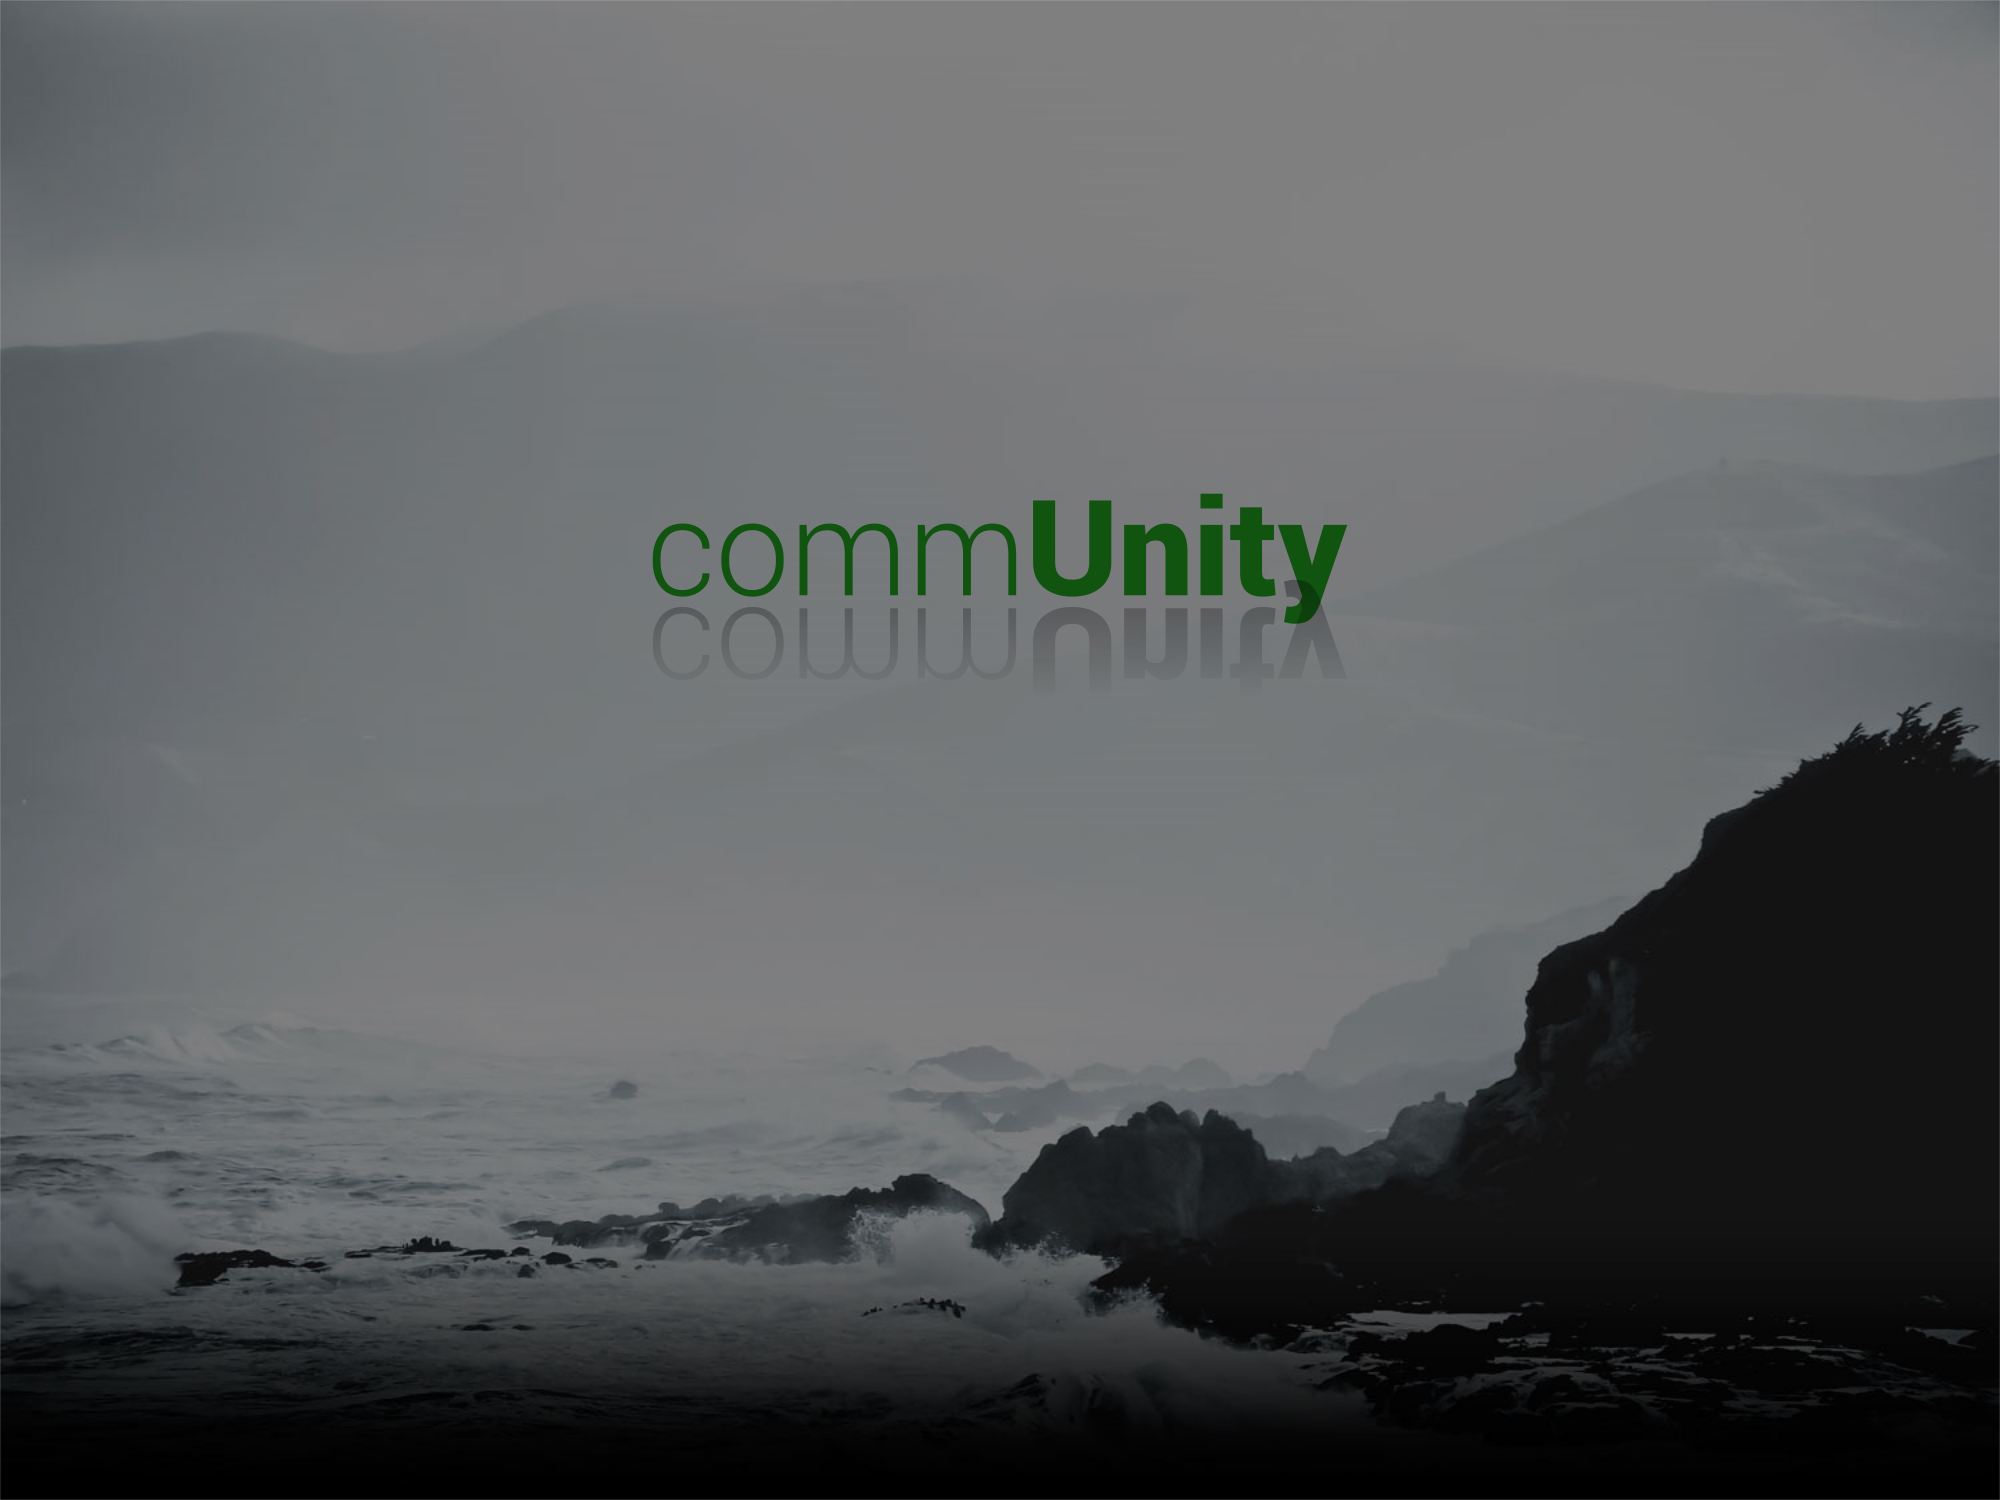
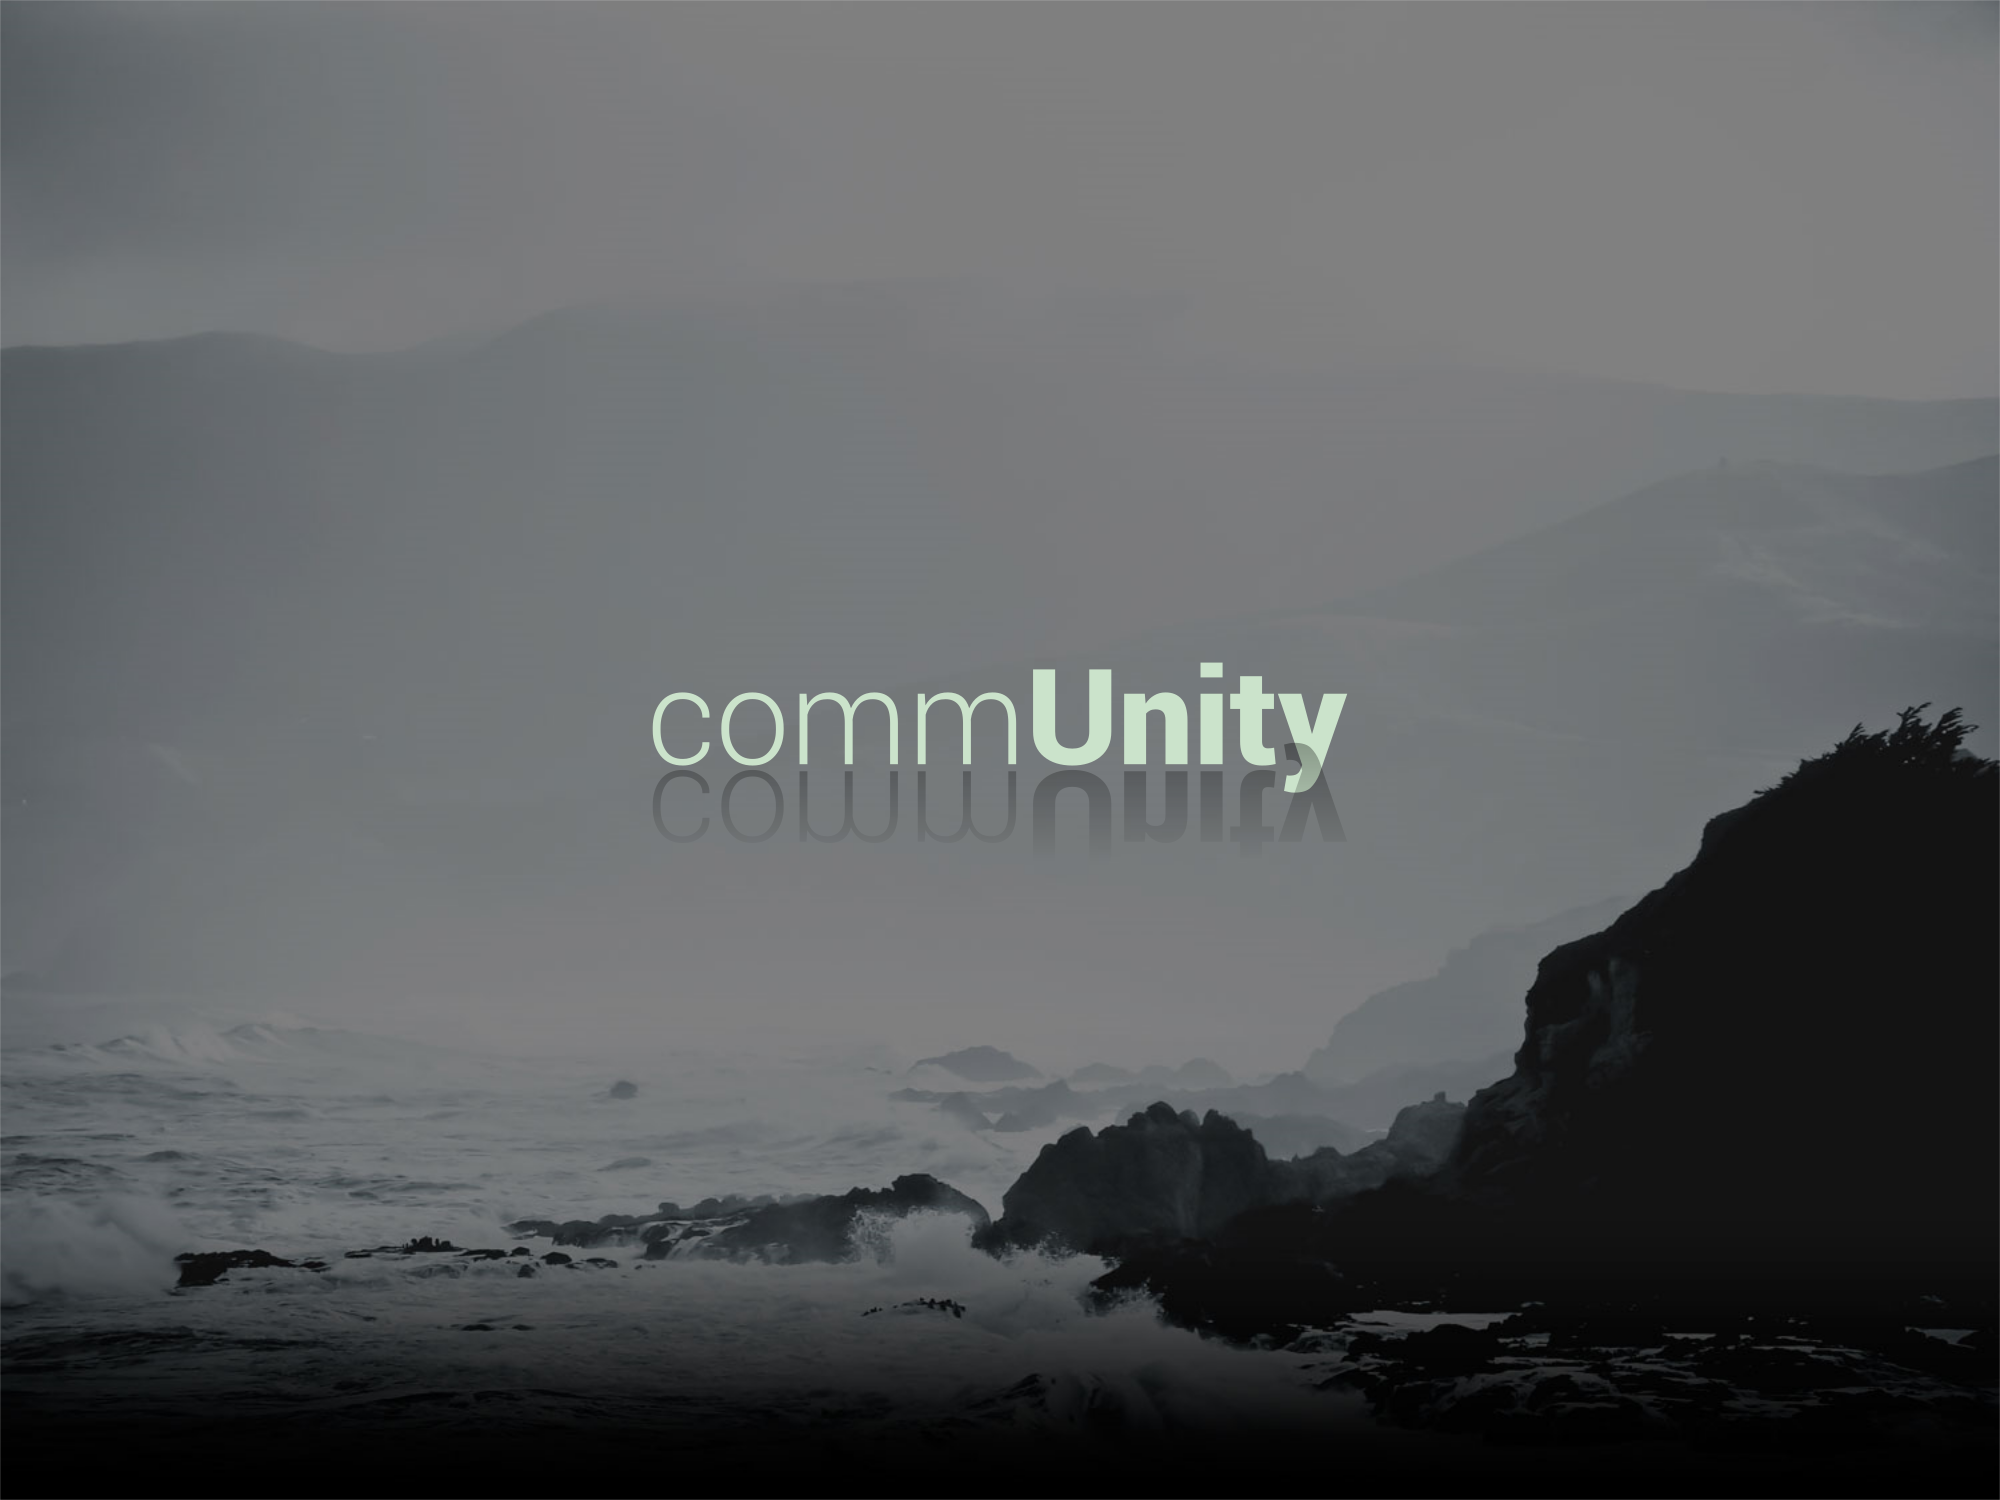
Updated images used, updated background image, changed section info

Changed region(s): [[0.31, 0.3067, 0.682, 0.552]]

diff --git a/static/css/grayscale.min.css b/static/css/grayscale.min.css
@@ -2,4 +2,4 @@
  * Start Bootstrap - Grayscale v3.3.7+1 (http://startbootstrap.com/template-overviews/grayscale)
  * Copyright 2013-2016 Start Bootstrap
  * Licensed under MIT (https://github.com/BlackrockDigital/startbootstrap/blob/gh-pages/LICENSE)
- */body,html{height:100%;width:100%}.navbar-custom,body{background-color:#000}.intro,body,html{width:100%}body{font-family:Lora,"Helvetica Neue",Helvetica,Arial,sans-serif;color:#fff;webkit-tap-highlight-color:rgba(255,255,255,.2)}.btn,.navbar-custom,h1,h2,h3,h4,h5,h6{text-transform:uppercase;font-family:Montserrat,"Helvetica Neue",Helvetica,Arial,sans-serif}h1,h2,h3,h4,h5,h6{margin:0 0 35px;font-weight:700;letter-spacing:1px}p{margin:0 0 25px;font-size:18px;line-height:1.5}@media (min-width:768px){p{margin:0 0 35px;font-size:20px;line-height:1.6}}a{color:#42DCA3;-webkit-transition:all .2s ease-in-out;-moz-transition:all .2s ease-in-out;transition:all .2s ease-in-out}a:focus,a:hover{text-decoration:none;color:#1d9b6c}.light{font-weight:400}.navbar-custom{margin-bottom:0;border-bottom:1px solid rgba(255,255,255,.3)}.navbar-custom .navbar-toggle{color:#fff;background-color:rgba(255,255,255,.2);font-size:12px}.navbar-custom .nav li a:active,.navbar-custom .nav li a:focus,.navbar-custom .nav li a:hover{background-color:transparent;outline:0}.navbar-custom .navbar-toggle:active,.navbar-custom .navbar-toggle:focus{outline:0}.navbar-custom .navbar-brand{font-weight:700}.navbar-custom .navbar-brand:focus{outline:0}.navbar-custom a{color:#fff}.navbar-custom .nav li a{-webkit-transition:background .3s ease-in-out;-moz-transition:background .3s ease-in-out;transition:background .3s ease-in-out}.navbar-custom .nav li a:hover{color:rgba(255,255,255,.8)}.navbar-custom .nav li.active{outline:0}.navbar-custom .nav li.active a{background-color:rgba(255,255,255,.3)}.navbar-custom .nav li.active a:hover{color:#fff}@media (min-width:768px){.navbar-custom{padding:20px 0;border-bottom:none;letter-spacing:1px;background:0 0;-webkit-transition:background .5s ease-in-out,padding .5s ease-in-out;-moz-transition:background .5s ease-in-out,padding .5s ease-in-out;transition:background .5s ease-in-out,padding .5s ease-in-out}.navbar-custom.top-nav-collapse{padding:0;background:#000;border-bottom:1px solid rgba(255,255,255,.3)}}.intro{display:table;height:auto;padding:100px 0;text-align:center;color:#fff;background:url(../img/commUnityBackground.png) bottom center no-repeat #000;-webkit-background-size:cover;-moz-background-size:cover;background-size:cover;-o-background-size:cover}  .intro .intro-body{display:table-cell;vertical-align:middle}  .intro .intro-body .brand-heading{font-size:40px}  .intro .intro-body .intro-text{font-size:18px}@media (min-width:768px){.intro{height:100%;padding:0}  .intro .intro-body .brand-heading{font-size:100px}  .intro .intro-body .intro-text{font-size:26px}}  .btn-circle{width:70px;height:70px;margin-top:15px;padding:7px 16px;border:2px solid #fff;border-radius:100%!important;font-size:40px;color:#fff;background:0 0;-webkit-transition:background .3s ease-in-out;-moz-transition:background .3s ease-in-out;transition:background .3s ease-in-out}  .btn-circle:focus,.btn-circle:hover{outline:0;color:#fff;background:rgba(255,255,255,.1)}  .btn-circle i.animated{-webkit-transition-property:-webkit-transform;-webkit-transition-duration:1s;-moz-transition-property:-moz-transform;-moz-transition-duration:1s}  .btn-circle:hover i.animated{-webkit-animation-name:pulse;-moz-animation-name:pulse;-webkit-animation-duration:1.5s;-moz-animation-duration:1.5s;-webkit-animation-iteration-count:infinite;-moz-animation-iteration-count:infinite;-webkit-animation-timing-function:linear;-moz-animation-timing-function:linear}  @-webkit-keyframes pulse{0%,100%{-webkit-transform:scale(1);transform:scale(1)} 50%{-webkit-transform:scale(1.2);transform:scale(1.2)}}  @-moz-keyframes pulse{0%,100%{-moz-transform:scale(1);transform:scale(1)} 50%{-moz-transform:scale(1.2);transform:scale(1.2)}}  .content-section{padding-top:100px}  .download-section{width:100%;padding:50px 0;color:#fff;background:url(../img/downloads-bg.jpg) center center no-repeat #000;-webkit-background-size:cover;-moz-background-size:cover;background-size:cover;-o-background-size:cover}  #map{width:100%;height:200px;margin-top:100px}@media (min-width:767px){.content-section{padding-top:250px}  .download-section{padding:100px 0}  #map{height:400px;margin-top:250px}}  .btn{font-weight:400;-webkit-transition:all .3s ease-in-out;-moz-transition:all .3s ease-in-out;transition:all .3s ease-in-out;border-radius:0}  .btn-default{border:1px solid #42DCA3;color:#42DCA3;background-color:transparent}  .btn-default:focus,.btn-default:hover{border:1px solid #42DCA3;outline:0;color:#000;background-color:#42DCA3}  ul.banner-social-buttons{margin-top:0}@media (max-width:1199px){ul.banner-social-buttons{margin-top:15px}}@media (max-width:767px){ul.banner-social-buttons li{display:block;margin-bottom:20px;padding:0}ul.banner-social-buttons li:last-child{margin-bottom:0}}  footer{padding:50px 0}  footer p{margin:0}  ::-moz-selection{text-shadow:none;background:#fcfcfc;background:rgba(255,255,255,.2)}  ::selection{text-shadow:none;background:#fcfcfc;background:rgba(255,255,255,.2)}  img::selection{background:0 0}  img::-moz-selection{background:0 0}
+ */body,html{height:100%;width:100%}.navbar-custom,body{background-color:#000}.intro,body,html{width:100%}body{font-family:Lora,"Helvetica Neue",Helvetica,Arial,sans-serif;color:#fff;webkit-tap-highlight-color:rgba(255,255,255,.2)}.btn,.navbar-custom,h1,h2,h3,h4,h5,h6{text-transform:uppercase;font-family:Montserrat,"Helvetica Neue",Helvetica,Arial,sans-serif}h1,h2,h3,h4,h5,h6{margin:0 0 35px;font-weight:700;letter-spacing:1px}p{margin:0 0 25px;font-size:18px;line-height:1.5}@media (min-width:768px){p{margin:0 0 35px;font-size:20px;line-height:1.6}}a{color:#42DCA3;-webkit-transition:all .2s ease-in-out;-moz-transition:all .2s ease-in-out;transition:all .2s ease-in-out}a:focus,a:hover{text-decoration:none;color:#1d9b6c}.light{font-weight:400}.navbar-custom{margin-bottom:0;border-bottom:1px solid rgba(255,255,255,.3)}.navbar-custom .navbar-toggle{color:#fff;background-color:rgba(255,255,255,.2);font-size:12px}.navbar-custom .nav li a:active,.navbar-custom .nav li a:focus,.navbar-custom .nav li a:hover{background-color:transparent;outline:0}.navbar-custom .navbar-toggle:active,.navbar-custom .navbar-toggle:focus{outline:0}.navbar-custom .navbar-brand{font-weight:700}.navbar-custom .navbar-brand:focus{outline:0}.navbar-custom a{color:#fff}.navbar-custom .nav li a{-webkit-transition:background .3s ease-in-out;-moz-transition:background .3s ease-in-out;transition:background .3s ease-in-out}.navbar-custom .nav li a:hover{color:rgba(255,255,255,.8)}.navbar-custom .nav li.active{outline:0}.navbar-custom .nav li.active a{background-color:rgba(255,255,255,.3)}.navbar-custom .nav li.active a:hover{color:#fff}@media (min-width:768px){.navbar-custom{padding:20px 0;border-bottom:none;letter-spacing:1px;background:0 0;-webkit-transition:background .5s ease-in-out,padding .5s ease-in-out;-moz-transition:background .5s ease-in-out,padding .5s ease-in-out;transition:background .5s ease-in-out,padding .5s ease-in-out}.navbar-custom.top-nav-collapse{padding:0;background:#000;border-bottom:1px solid rgba(255,255,255,.3)}}.intro{display:table;height:auto;padding:100px 0;text-align:center;color:#fff;background:url(../img/commUnityBackground.png) bottom center no-repeat #000;-webkit-background-size:cover;-moz-background-size:cover;background-size:cover;-o-background-size:cover}  .intro .intro-body{display:table-cell;vertical-align:middle}  .intro .intro-body .brand-heading{font-size:40px}  .intro .intro-body .intro-text{font-size:18px}@media (min-width:768px){.intro{height:100%;padding:0}  .intro .intro-body .brand-heading{font-size:100px}  .intro .intro-body .intro-text{font-size:26px}}  .btn-circle{width:70px;height:70px;margin-top:15px;padding:7px 16px;border:2px solid #fff;border-radius:100%!important;font-size:40px;color:#fff;background:0 0;-webkit-transition:background .3s ease-in-out;-moz-transition:background .3s ease-in-out;transition:background .3s ease-in-out}  .btn-circle:focus,.btn-circle:hover{outline:0;color:#fff;background:rgba(255,255,255,.1)}  .btn-circle i.animated{-webkit-transition-property:-webkit-transform;-webkit-transition-duration:1s;-moz-transition-property:-moz-transform;-moz-transition-duration:1s}  .btn-circle:hover i.animated{-webkit-animation-name:pulse;-moz-animation-name:pulse;-webkit-animation-duration:1.5s;-moz-animation-duration:1.5s;-webkit-animation-iteration-count:infinite;-moz-animation-iteration-count:infinite;-webkit-animation-timing-function:linear;-moz-animation-timing-function:linear}  @-webkit-keyframes pulse{0%,100%{-webkit-transform:scale(1);transform:scale(1)} 50%{-webkit-transform:scale(1.2);transform:scale(1.2)}}  @-moz-keyframes pulse{0%,100%{-moz-transform:scale(1);transform:scale(1)} 50%{-moz-transform:scale(1.2);transform:scale(1.2)}}  .content-section{padding-top:100px}  .download-section{width:100%;padding:50px 0;color:#fff;background:url(../img/downloads-bg.jpg) center center no-repeat #000;-webkit-background-size:cover;-moz-background-size:cover;background-size:cover;-o-background-size:cover}  #map{width:100%;height:200px;margin-top:100px}@media (min-width:767px){.content-section{padding-top:175px}  .download-section{padding:100px 0}  #map{height:400px;margin-top:250px}}  .btn{font-weight:400;-webkit-transition:all .3s ease-in-out;-moz-transition:all .3s ease-in-out;transition:all .3s ease-in-out;border-radius:0}  .btn-default{border:1px solid #42DCA3;color:#42DCA3;background-color:transparent}  .btn-default:focus,.btn-default:hover{border:1px solid #42DCA3;outline:0;color:#000;background-color:#42DCA3}  ul.banner-social-buttons{margin-top:0}@media (max-width:1199px){ul.banner-social-buttons{margin-top:15px}}@media (max-width:767px){ul.banner-social-buttons li{display:block;margin-bottom:20px;padding:0}ul.banner-social-buttons li:last-child{margin-bottom:0}}  footer{padding:50px 0}  footer p{margin:0}  ::-moz-selection{text-shadow:none;background:#fcfcfc;background:rgba(255,255,255,.2)}  ::selection{text-shadow:none;background:#fcfcfc;background:rgba(255,255,255,.2)}  img::selection{background:0 0}  img::-moz-selection{background:0 0}

diff --git a/templates/index.html b/templates/index.html
@@ -77,7 +77,7 @@
                 <div class="row">
                     <div class="col-md-8 col-md-offset-2">
                         <!--<h1 class="brand-heading">Comm Unity</h1>-->
-                        <p class="intro-text">Projects for the community, by the community.</p>
+                        <p class="intro-text" style="margin-top: 10%;">Projects for the community, by the community.</p>
                         <a href="#about" class="btn btn-circle page-scroll">
                             <i class="fa fa-angle-double-down animated"></i>
                         </a>
@@ -92,9 +92,8 @@
         <div class="row">
             <div class="col-lg-8 col-lg-offset-2">
                 <h2>About Comm Unity</h2>
-                <p>Grayscale is a free Bootstrap 3 theme created by Start Bootstrap. It can be yours right now, simply download the template on <a href="http://startbootstrap.com/template-overviews/grayscale/">the preview page</a>. The theme is open source, and you can use it for any purpose, personal or commercial.</p>
-                <p>This theme features stock photos by <a href="http://gratisography.com/">Gratisography</a> along with a custom Google Maps skin courtesy of <a href="http://snazzymaps.com/">Snazzy Maps</a>.</p>
-                <p>Grayscale includes full HTML, CSS, and custom JavaScript files along with LESS files for easy customization.</p>
+                <p>CommUnity is an Android based platform developed by a team of NYU students for HackNYU.</p>
+                <p>The team hopes to promote social engagement by facilitating community centered projects.</p>
             </div>
         </div>
     </section>
@@ -117,26 +116,26 @@
         <div class="row">
             <div class="col-lg-8 col-lg-offset-2">
                 <h2>Meet The Team!</h2>
-                <p>Feel free to email us to provide some feedback on our templates, give us suggestions for new templates and themes, or to just say hello!</p>
+                <p>Feel free to email us at <a>team@community.com</a> to provide feedback!</p>
                 </p>
                 <ul class="list-inline banner-social-buttons">
                     <li>
-                        <img style="border-radius: 50%;max-width: 150px;" src="/static/img/william.jpg" />
+                        <img style="border-radius: 50%;max-width: 150px;margin-right: 50px;margin-bottom: 25px;" src="/static/img/will.png" />
                     </li>
                     <li>
-                        <img style="border-radius: 50%;max-width: 150px;" src="/static/img/sahir.jpg" />
+                        <img style="border-radius: 50%;max-width: 150px;margin-bottom: 25px;" src="/static/img/sahir.png" />
                     </li>
                     <li>
-                        <img style="border-radius: 50%;max-width: 150px;" src="/static/img/brandon.jpg" />
-                    </li><br />
-                    <li>
-                        <img style="border-radius: 50%;max-width: 150px;" src="/static/img/yatin.jpg" />
+                        <img style="border-radius: 50%;max-width: 150px;margin-left: 50px;margin-bottom: 25px;" src="/static/img/brandon.png" />
                     </li>
                     <li>
-                        <img style="border-radius: 50%;max-width: 150px;" src="/static/img/pallak.jpg" />
+                        <img style="border-radius: 50%;max-width: 150px;margin-right: 50px;" src="/static/img/yatin.png" />
                     </li>
                     <li>
-                        <img style="border-radius: 50%;max-width: 150px;" src="/static/img/rabab.jpg" />
+                        <img style="border-radius: 50%;max-width: 150px;" src="/static/img/pallak.png" />
+                    </li>
+                    <li>
+                        <img style="border-radius: 50%;max-width: 150px;margin-left: 50px;" src="/static/img/rabab.png" />
                     </li>
                 </ul>
             </div>

diff --git a/static/css/grayscale.css b/static/css/grayscale.css
@@ -241,7 +241,7 @@ a:focus {
 }
 @media (min-width: 767px) {
   .content-section {
-    padding-top: 250px;
+    padding-top: 170px;
   }
   .download-section {
     padding: 100px 0;
